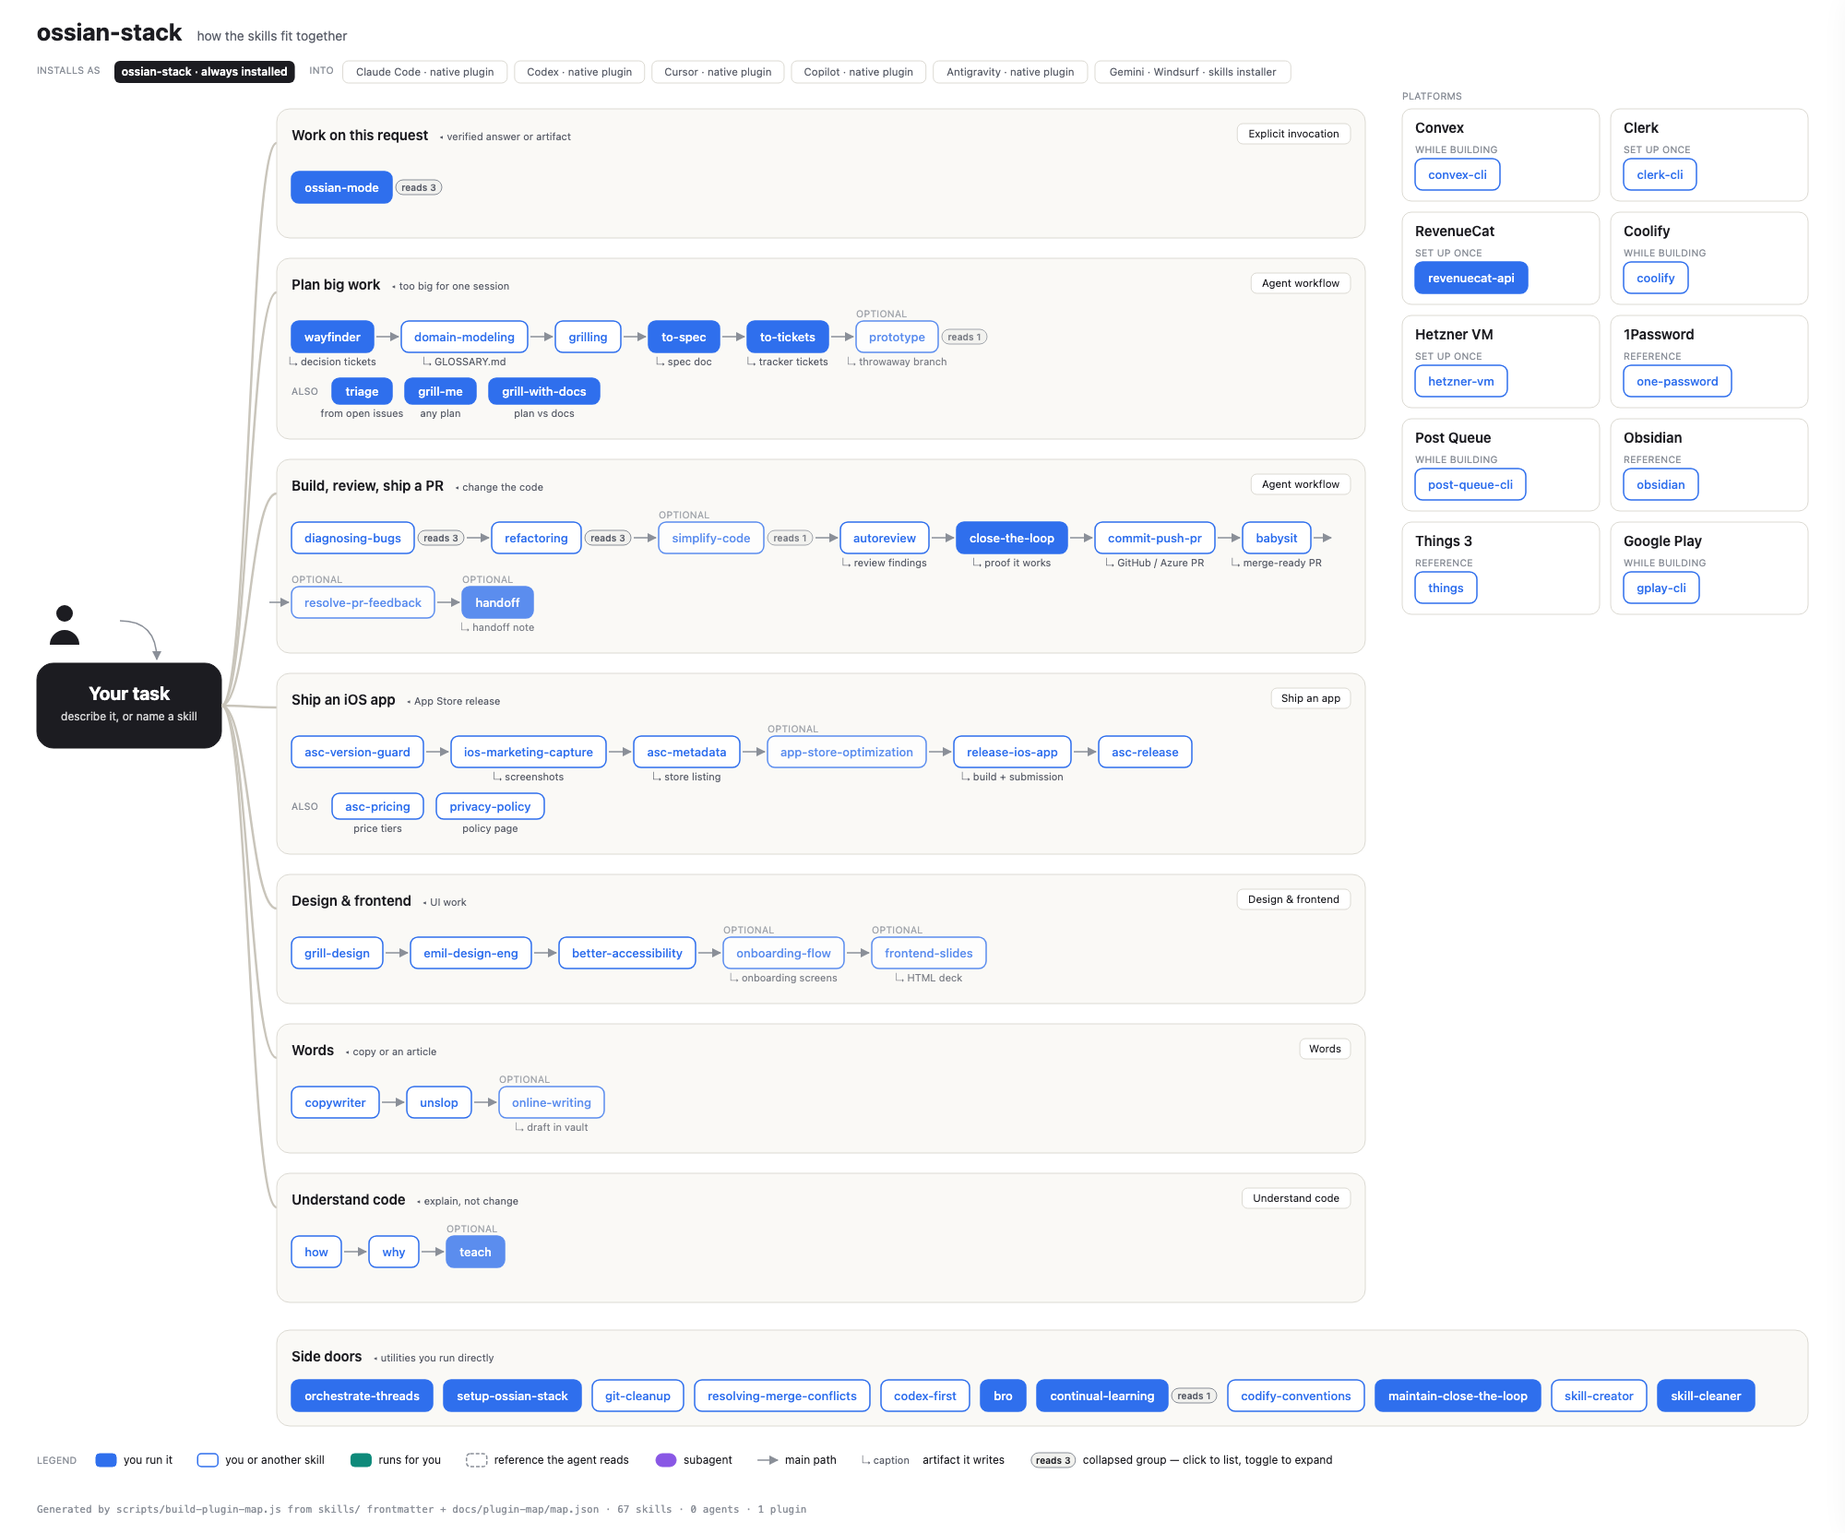
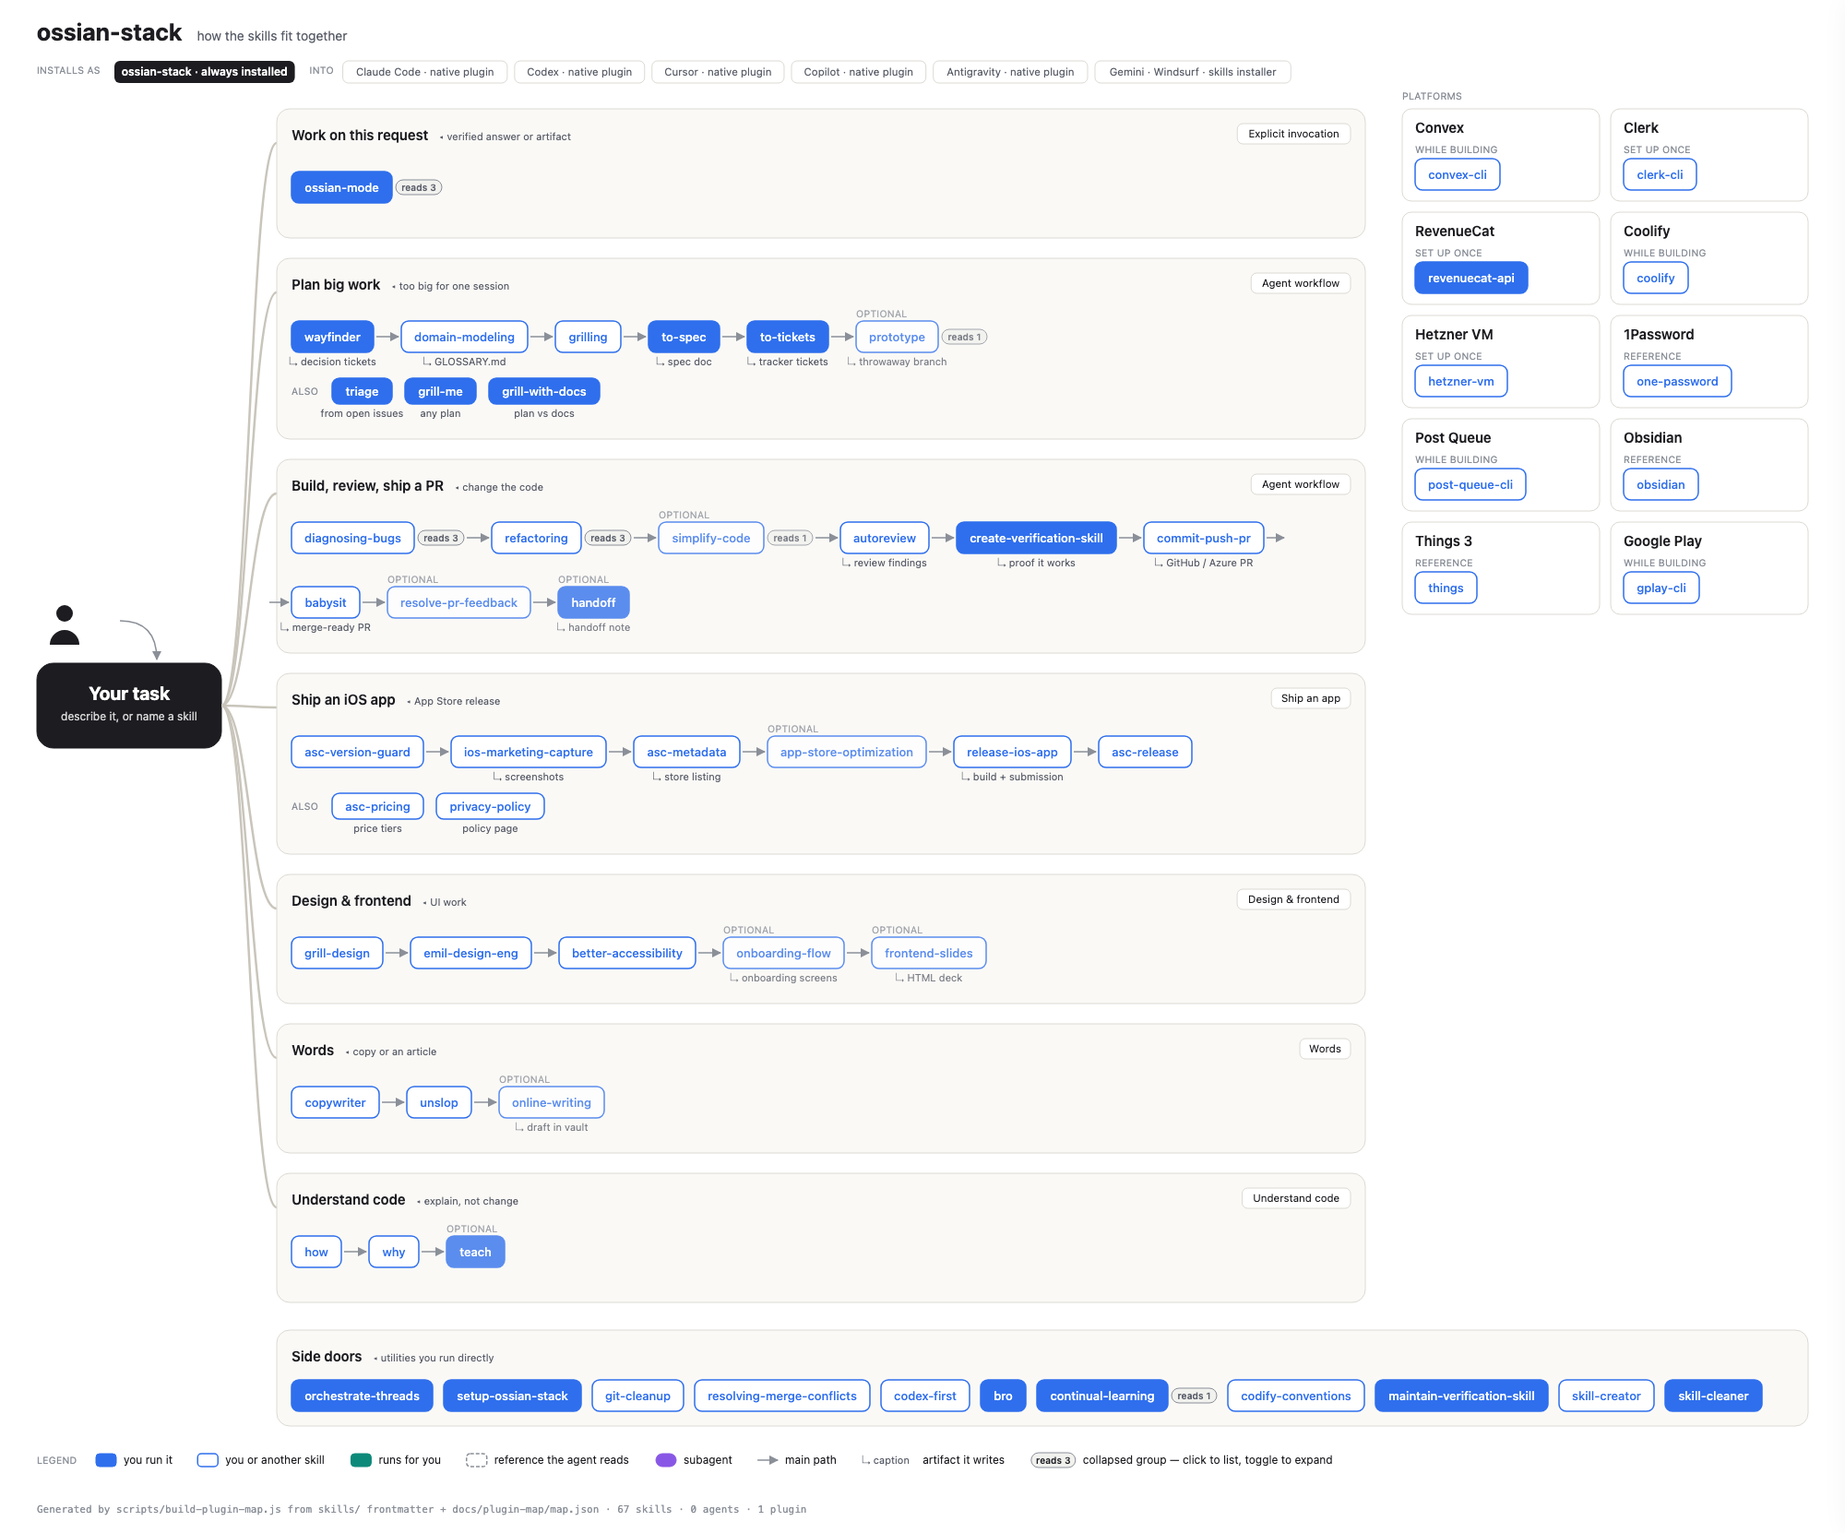
fix(verification): align skill names with upstream

Changed region(s): [[0.155, 0.3682, 0.341, 0.4296], [0.775, 0.8899, 0.961, 0.9206], [0.527, 0.3375, 0.713, 0.3682]]

diff --git a/docs/plugin-map/index.html b/docs/plugin-map/index.html
@@ -234,7 +234,7 @@
       "writes": "review findings"
      },
      {
-      "id": "close-the-loop",
+      "id": "create-verification-skill",
       "writes": "proof it works"
      },
      {
@@ -476,7 +476,7 @@
    "bro",
    "continual-learning",
    "codify-conventions",
-   "maintain-close-the-loop",
+   "maintain-verification-skill",
    "skill-creator",
    "skill-cleaner"
   ],
@@ -660,25 +660,6 @@
     "skill-creator"
    ]
   },
-  "close-the-loop": {
-   "id": "close-the-loop",
-   "type": "skill",
-   "plugin": "ossian-stack",
-   "display": "Close the Loop",
-   "description": "Create and prove a project-local verification skill that launches and drives the real app, CLI, or service.",
-   "role": "human",
-   "humanOnly": true,
-   "argumentHint": null,
-   "origin": "adapted",
-   "repo": "https://github.com/cursor/plugins",
-   "calls": [],
-   "calledBy": [
-    "diagnosing-bugs",
-    "ossian-mode",
-    "prototype",
-    "setup-ossian-stack"
-   ]
-  },
   "codex-first": {
    "id": "codex-first",
    "type": "skill",
@@ -805,6 +786,25 @@
     "online-writing"
    ]
   },
+  "create-verification-skill": {
+   "id": "create-verification-skill",
+   "type": "skill",
+   "plugin": "ossian-stack",
+   "display": "Create Verification Skill",
+   "description": "Create and prove a project-local verification skill that launches and drives the real app, CLI, or service.",
+   "role": "human",
+   "humanOnly": true,
+   "argumentHint": null,
+   "origin": "adapted",
+   "repo": "https://github.com/cursor/plugins",
+   "calls": [],
+   "calledBy": [
+    "diagnosing-bugs",
+    "ossian-mode",
+    "prototype",
+    "setup-ossian-stack"
+   ]
+  },
   "diagnosing-bugs": {
    "id": "diagnosing-bugs",
    "type": "skill",
@@ -817,7 +817,7 @@
    "origin": "adapted",
    "repo": "https://github.com/mattpocock/skills",
    "calls": [
-    "close-the-loop",
+    "create-verification-skill",
     "how",
     "why",
     "principle-exhaust-the-design-space",
@@ -1056,11 +1056,11 @@
     "skill-creator"
    ]
   },
-  "maintain-close-the-loop": {
-   "id": "maintain-close-the-loop",
+  "maintain-verification-skill": {
+   "id": "maintain-verification-skill",
    "type": "skill",
    "plugin": "ossian-stack",
-   "display": "Maintain Close the Loop",
+   "display": "Maintain Verification Skill",
    "description": "Audit and repair a project's verification skill and feature map against source and live behavior. Explicit invocation only.",
    "role": "human",
    "humanOnly": true,
@@ -1197,7 +1197,7 @@
     "babysit",
     "release-ios-app",
     "autoreview",
-    "close-the-loop",
+    "create-verification-skill",
     "principle-prove-it-works",
     "principle-fix-root-causes",
     "principle-sequence-verifiable-units",
@@ -1380,7 +1380,7 @@
    "origin": "adapted",
    "repo": "https://github.com/mattpocock/skills",
    "calls": [
-    "close-the-loop",
+    "create-verification-skill",
     "principle-exhaust-the-design-space"
    ],
    "calledBy": [
@@ -1498,7 +1498,7 @@
    "repo": null,
    "calls": [
     "babysit",
-    "close-the-loop",
+    "create-verification-skill",
     "continual-learning",
     "diagnosing-bugs",
     "domain-modeling",

diff --git a/README.md b/README.md
@@ -148,7 +148,7 @@ refreshed instead of quietly rotting.
 | **Design & frontend** | Accessibility, UI craft and motion, decks, onboarding, throwaway prototypes | `better-accessibility` · `emil-design-eng` · `grill-design` · `frontend-slides` · `onboarding-flow` · `prototype` |
 | **Words** | Marketing copy, editorial, slop removal | `copywriter` · `online-writing` · `unslop` |
 | **Backend & infra** | Convex, Clerk, RevenueCat, secrets, Post Queue, Coolify deploys, Hetzner VM | `convex-cli` · `clerk-cli` · `revenuecat-api` · `one-password` · `post-queue-cli` · `coolify` · `hetzner-vm` |
-| **Agent workflow** | Review, routing, chat orchestration, large-effort planning, simplification, refactoring, debugging, verification, conventions enforcement, issue triage and ticketing, commit and PR creation with merge-ready follow-through, GitHub/Azure PR babysitting, git hygiene, install and skill maintenance | `autoreview` · `babysit` · `commit-push-pr` · `continual-learning` · `codify-conventions` · `setup-ossian-stack` · `diagnosing-bugs` · `domain-modeling` · `close-the-loop` · `maintain-close-the-loop` · `codex-first` · `git-cleanup` · `grill-me` · `grill-with-docs` · `grilling` · `handoff` · `orchestrate-threads` · `ossian-mode` · `refactoring` · `resolving-merge-conflicts` · `resolve-pr-feedback` · `simplify-code` · `triage` · `to-spec` · `to-tickets` · `wayfinder` · `bro` · `skill-creator` · `skill-cleaner` |
+| **Agent workflow** | Review, routing, chat orchestration, large-effort planning, simplification, refactoring, debugging, verification, conventions enforcement, issue triage and ticketing, commit and PR creation with merge-ready follow-through, GitHub/Azure PR babysitting, git hygiene, install and skill maintenance | `autoreview` · `babysit` · `commit-push-pr` · `continual-learning` · `codify-conventions` · `setup-ossian-stack` · `diagnosing-bugs` · `domain-modeling` · `create-verification-skill` · `maintain-verification-skill` · `codex-first` · `git-cleanup` · `grill-me` · `grill-with-docs` · `grilling` · `handoff` · `orchestrate-threads` · `ossian-mode` · `refactoring` · `resolving-merge-conflicts` · `resolve-pr-feedback` · `simplify-code` · `triage` · `to-spec` · `to-tickets` · `wayfinder` · `bro` · `skill-creator` · `skill-cleaner` |
 | **Principles** | Short, explicitly-invoked rules for how to work — verification, design exploration, debugging posture, domain modeling | `principle-encode-lessons-in-structure` · `principle-exhaust-the-design-space` · `principle-fix-root-causes` · `principle-model-the-domain` · `principle-prove-it-works` · `principle-redesign-from-first-principles` · `principle-sequence-verifiable-units` · `principle-subtract-before-you-add` |
 | **Understand code** | Codebase walkthroughs, design rationale, explaining a change | `how` · `why` · `teach` |
 | **Personal tooling** | Notes and tasks | `obsidian` · `things` |

diff --git a/skills/maintain-verification-skill/SKILL.md b/skills/maintain-verification-skill/SKILL.md
@@ -1,12 +1,12 @@
 ---
-name: maintain-close-the-loop
+name: maintain-verification-skill
 description: "Audit and repair a project's verification skill and feature map against source and live behavior. Explicit invocation only."
 disable-model-invocation: true
 ---
 
-# Maintain Close the Loop
+# Maintain Verification Skill
 
-A feature map rots the moment the app changes. This skill is the upkeep loop for a skill generated by `/close-the-loop` (or any project-local verification skill with a feature map). The unit of rigor is the feature, not every sentence: cover every feature file from source and exercise every feature live, without terminalising every bullet.
+A feature map rots the moment the app changes. This skill is the upkeep loop for a skill generated by `/create-verification-skill` (or any project-local verification skill with a feature map). The unit of rigor is the feature, not every sentence: cover every feature file from source and exercise every feature live, without terminalising every bullet.
 
 ## Outcomes
 
@@ -24,7 +24,7 @@ Honor inherited scope: audit-only runs report proposed corrections without edits
 
 ## Pass
 
-0. **Locate the target.** Find the verification skill to maintain: the project-local skill whose body has launch/drive sections and a feature map (usually `verify-*/` under whichever of `.agents/skills/`, `.claude/skills/`, or `.cursor/skills/` the repo uses). Several candidates → ask which one; none → stop and point at `/close-the-loop` instead of inventing a target.
+0. **Locate the target.** Find the verification skill to maintain: the project-local skill whose body has launch/drive sections and a feature map (usually `verify-*/` under whichever of `.agents/skills/`, `.claude/skills/`, or `.cursor/skills/` the repo uses). Several candidates → ask which one; none → stop and point at `/create-verification-skill` instead of inventing a target.
 
 1. **Index hygiene.** Read the feature map README and glob its sibling files. Fix missing, extra, duplicate, or dead entries. Lightweight; no generated inventory.
 

diff --git a/skills/maintain-verification-skill/README.md b/skills/maintain-verification-skill/README.md
@@ -1,0 +1,33 @@
+# maintain-verification-skill
+
+Adapted from [cursor/plugins](https://github.com/cursor/plugins)
+(`pstack/skills/maintain-verification-skill`).
+
+The upkeep pass for a verification skill: one read-only subagent per feature file
+reading source concurrently, then one live pass where the coordinator drives every
+feature itself, then at most one PR of proven corrections. It always names the
+outcome: `clean`, `changed`, or `blocked`.
+
+Its sharpest rule is the edit scope: never touch product code during a run. A
+behavior the map describes that the app no longer does is either doc drift to fix
+in the map or a product regression to report.
+
+Paired with `create-verification-skill`, which generates the skill this one
+maintains.
+
+## What changed
+
+Target discovery resolves the skills directory the project uses instead of
+assuming `.cursor/skills/verify-*/`. The local workflow also preserves inherited
+edit boundaries, supports sequential source review when subagents are unavailable,
+and tightens live evidence, retry, cleanup, and unreachable-path requirements.
+
+`agents/openai.yaml` is a local addition so Codex honors the same user-invoke-only
+policy as `disable-model-invocation`.
+
+To update:
+
+```bash
+npx skills add cursor/plugins -y --skill maintain-verification-skill
+# hand-merge this adapted copy; never overwrite it
+```

diff --git a/skills/setup-ossian-stack/references/dependencies-and-project.md b/skills/setup-ossian-stack/references/dependencies-and-project.md
@@ -70,7 +70,7 @@ created lazily on purpose; pre-creating them is a mistake**, because an empty
 - `GLOSSARY.md`, `GLOSSARY-MAP.md`, `docs/adr/` — `domain-modeling` creates these
   the moment it has something real to write, and `diagnosing-bugs` reads whichever
   exists. Do not create them here. Do not create them empty ever.
-- A project-local skills directory — `close-the-loop` resolves or creates it when
+- A project-local skills directory — `create-verification-skill` resolves or creates it when
   it generates a verifier. Leave it alone until then.
 - `.env`, `.env.local` and friends — the project's own, never ours to write.
 - **`.ios-release.env` is the exception.** `release-ios-app` reads it first and
@@ -84,5 +84,5 @@ Report what is missing and who creates it. Create nothing in this step.
 If the project has no `verify-*` skill or equivalent harness that can drive the
 real product surface, offer once: "Want a project-local verification skill so
 agents can exercise the app like a user and prove changes work? Invoke
-`/close-the-loop` and I will generate one." This is optional setup. On no, move
+`/create-verification-skill` and I will generate one." This is optional setup. On no, move
 on without asking again or treating the missing verifier as a general blocker.

diff --git a/skills/create-verification-skill/SKILL.md b/skills/create-verification-skill/SKILL.md
@@ -1,10 +1,10 @@
 ---
-name: close-the-loop
+name: create-verification-skill
 description: "Create and prove a project-local verification skill that launches and drives the real app, CLI, or service."
 disable-model-invocation: true
 ---
 
-# Close the Loop
+# Create Verification Skill
 
 Every serious project needs a scripted way to drive the real app and prove behavior: launch it, exercise a feature the way a user would, and capture evidence. Without it an agent can tell you it finished, never that it worked — repeated prompting rather than a loop. This skill generates the missing check as a project-local skill (`<skills-dir>/verify-<app>/`) tailored to the repo. You write the generator's output for the next agent, not for a human: it will be read cold, mid-task, by an agent that has never seen the app.
 
@@ -53,4 +53,4 @@ Run its own instructions end to end once: launch, doctor, drive ONE mapped featu
 
 ## 5. Offer the maintenance loop
 
-Point the user at `/maintain-close-the-loop` for keeping the map honest as the app changes. Suggest a cadence only if they ask.
+Point the user at `/maintain-verification-skill` for keeping the map honest as the app changes. Suggest a cadence only if they ask.

diff --git a/skills/create-verification-skill/README.md b/skills/create-verification-skill/README.md
@@ -1,0 +1,30 @@
+# create-verification-skill
+
+Adapted from [cursor/plugins](https://github.com/cursor/plugins)
+(`pstack/skills/create-verification-skill`).
+
+Generates a project-local verification skill: launch the real app, health-check
+it, drive a feature the way a user would, capture evidence, tear down. It also
+creates a feature map so later runs know what else needs proving. It runs its own
+output end to end once before handoff because an unexecuted generated skill is
+still a draft.
+
+Paired with `maintain-verification-skill`, which keeps the map honest as the app
+changes.
+
+## What changed
+
+Upstream hardcodes `.cursor/skills/verify-<app>/`. A new step 0 resolves the
+project's own skills directory instead: first existing of `.agents/skills/`,
+`.claude/skills/`, `.cursor/skills/`; otherwise it creates `.agents/skills/` and
+symlinks `.claude/skills` to it when Claude Code support is needed.
+
+`agents/openai.yaml` is a local addition so Codex honors the same user-invoke-only
+policy as `disable-model-invocation`.
+
+To update:
+
+```bash
+npx skills add cursor/plugins -y --skill create-verification-skill
+# hand-merge this adapted copy; never overwrite it
+```

diff --git a/skills/ossian-mode/SKILL.md b/skills/ossian-mode/SKILL.md
@@ -46,7 +46,7 @@ explicit-only deeper references; the rules here do not depend on invoking them.
 If the project has a `verify-*` skill or equivalent control harness, use it for
 every user-facing feature this change touched. If it has none, use the strongest
 real surface available and report the reusable verification gap. Offer the user
-`/close-the-loop` once; do not generate it implicitly or make accepting the offer
+`/create-verification-skill` once; do not generate it implicitly or make accepting the offer
 a condition of finishing work that can already be verified.
 
 Before delivery, complete this behavioral proof as well as the relevant focused

diff --git a/skills/orchestrate-threads/references/priming.md b/skills/orchestrate-threads/references/priming.md
@@ -147,7 +147,7 @@ rest the agent invokes itself.
 - `autoreview` before every commit that will become a PR.
 - The project's own verification skill, if the repo has one, to prove the
   change in the real app by driving the feature the change touched. If there
-  is none, say so in the report rather than generating one: `close-the-loop`
+  is none, say so in the report rather than generating one: `create-verification-skill`
   (user types) is a one-time generator HQ has run once per repo, not a
   build-thread step. `principle-prove-it-works` (user types) before declaring
   done.

diff --git a/skills/diagnosing-bugs/SKILL.md b/skills/diagnosing-bugs/SKILL.md
@@ -47,7 +47,7 @@ up.**
 that says to ask the user does not override this; you drive the instrumented
 runtime. Ask only with a stated, specific reason you cannot reach the target, and
 only after driving it as far as it goes. If the project has a verification skill,
-that is your surface — reach for `close-the-loop` when it has none and the bug
+that is your surface — reach for `create-verification-skill` when it has none and the bug
 lives behind a UI, CLI, or service you cannot otherwise drive.
 
 ### Ways to construct one, in roughly this order

diff --git a/skills/prototype/README.md b/skills/prototype/README.md
@@ -25,7 +25,7 @@ the decision.
 | Upstream | Here |
 | --- | --- |
 | `exhaust-the-design-space` principle skill | `principle-exhaust-the-design-space` |
-| the control skill, for driving the surface | `close-the-loop` |
+| the control skill, for driving the surface | `create-verification-skill` |
 | Laziness Protocol | stated inline; folded into `simplify-code`, not shipped standalone |
 | `Feature` playbook, `architect` skill | dropped — the handoff is stated plainly instead |
 

diff --git a/skills/prototype/SKILL.md b/skills/prototype/SKILL.md
@@ -99,7 +99,7 @@ observe the thing you are deciding: log the timing, print the output, watch the
 render.
 
 **The observation is the test here**, not an assertion. If the project has no
-scripted way to drive its own surface, `close-the-loop` builds one.
+scripted way to drive its own surface, `create-verification-skill` builds one.
 
 ## 8. Present, then capture
 
